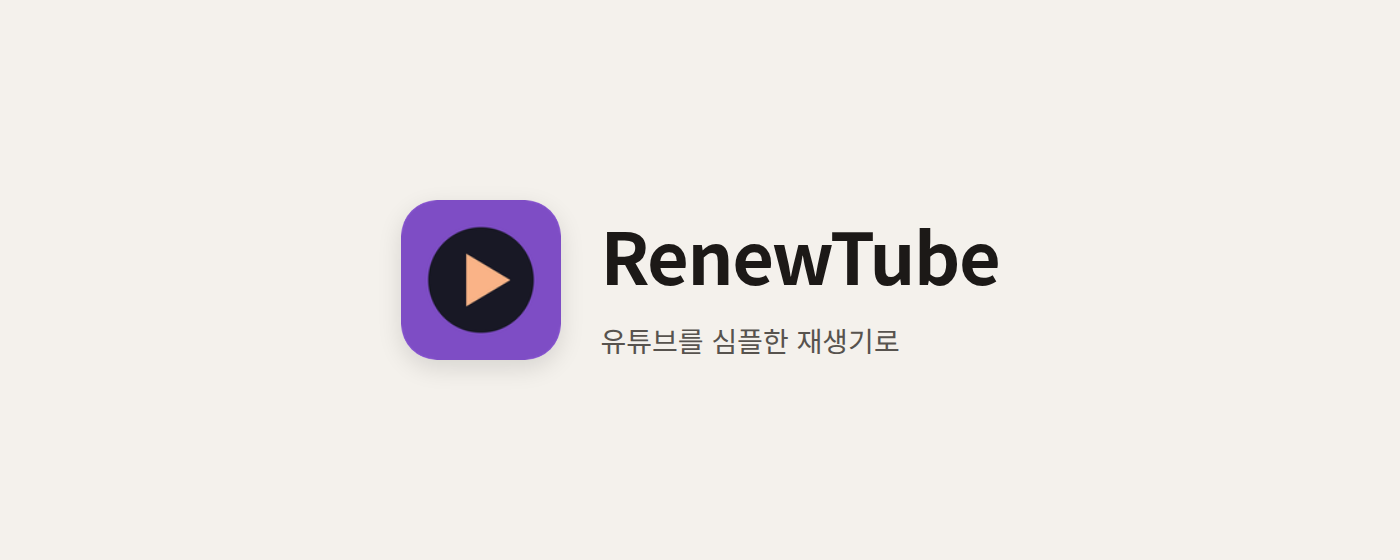
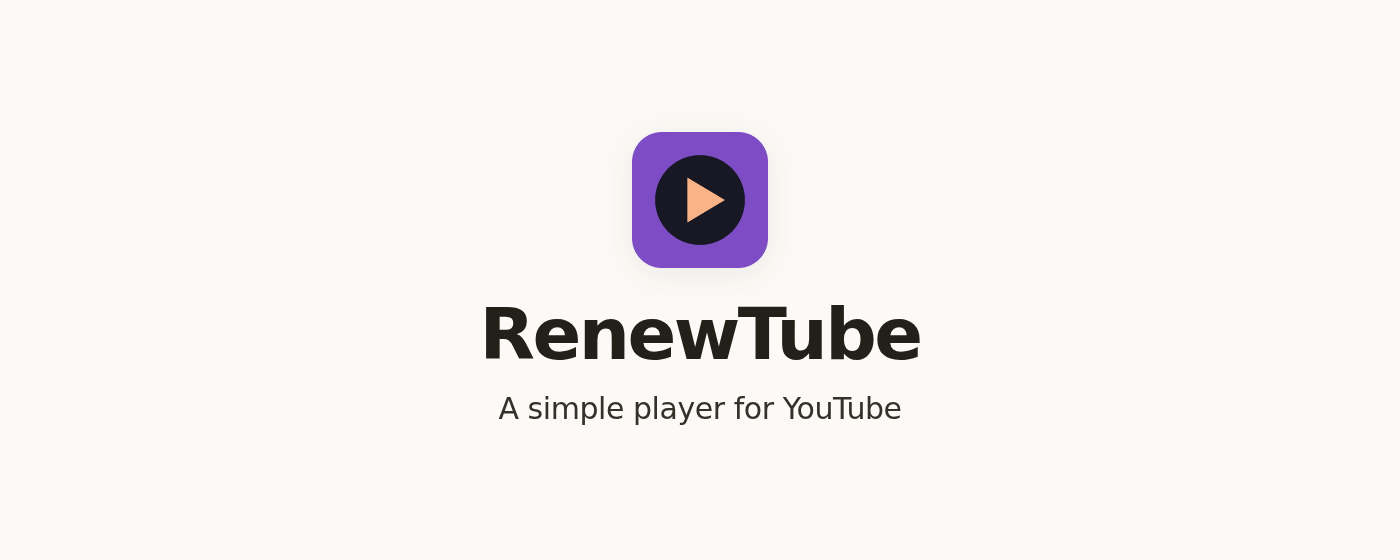
The link card and the promo tiles say it in English
The same icon, the same off-white plate, the name and one line under it.
Nothing generated but the plate; the type is set, so it cannot come out
misspelled.

Claude-Session: https://claude.ai/code/session_01SJQEGCGRiaEfAwGnjZCpta

Changed region(s): [[0.2764, 0.3339, 0.6757, 0.6679], [0.43, 0.2125, 0.7371, 0.5161], [0.3379, 0.6982, 0.645, 0.7589]]

diff --git a/docs/store-listing.md b/docs/store-listing.md
@@ -115,8 +115,10 @@ English (`_locales/en/messages.json` 의 `extDescription` 과 같은 값):
 | `promo-marquee-1400x560.png` | 1400×560 | 마키 (선택) |
 | `../site/icon-128.png` | 128×128 | 스토어 아이콘 |
 
-이미지는 실제 화면을 찍은 것이고 합성하지 않았습니다. 다시 찍으려면
-`scratch/store/shots.spec.ts` 를 만들었던 방식대로 1280×800 뷰포트에서 찍습니다.
+스크린샷은 실제 화면을 1280×800 뷰포트에서 찍은 것이고 합성하지 않았습니다.
+프로모 타일 둘과 `site/og.png` 는 영어 문구(RenewTube / A simple player for
+YouTube)로, 아이콘 원본을 그대로 얹은 단색 플레이트입니다. 다시 만들 때도 그라데이션과
+파티클은 넣지 않습니다.
 
 ## 대시보드에서 할 일 (첫 등록)
 
